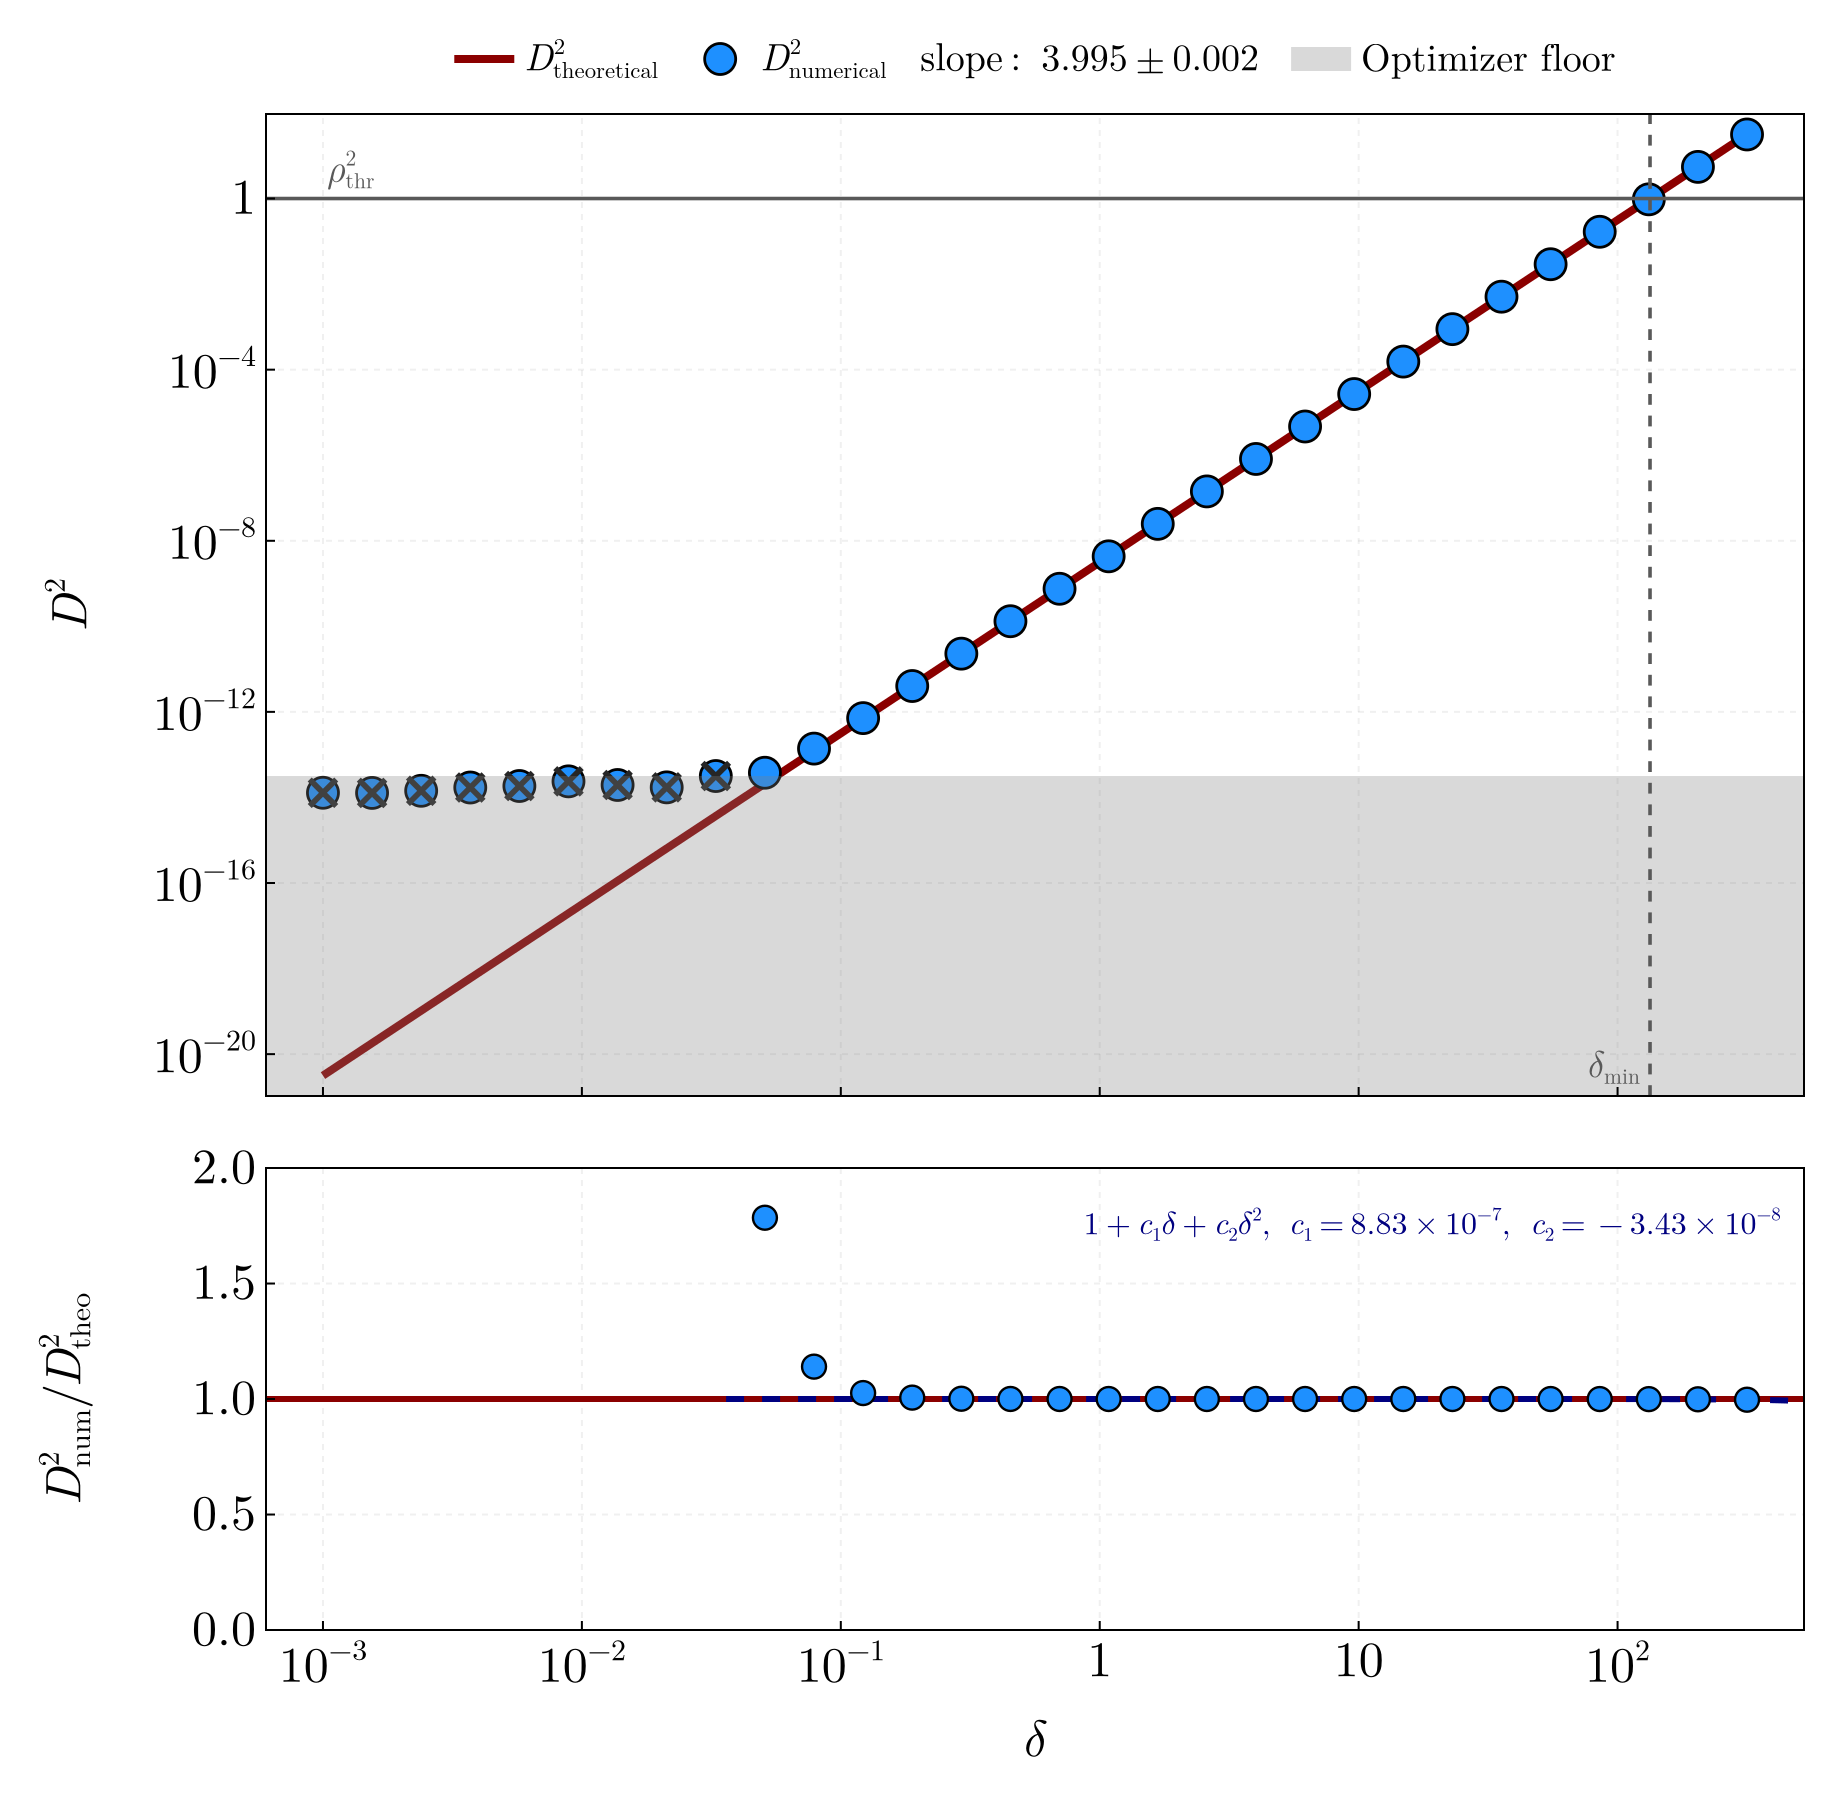
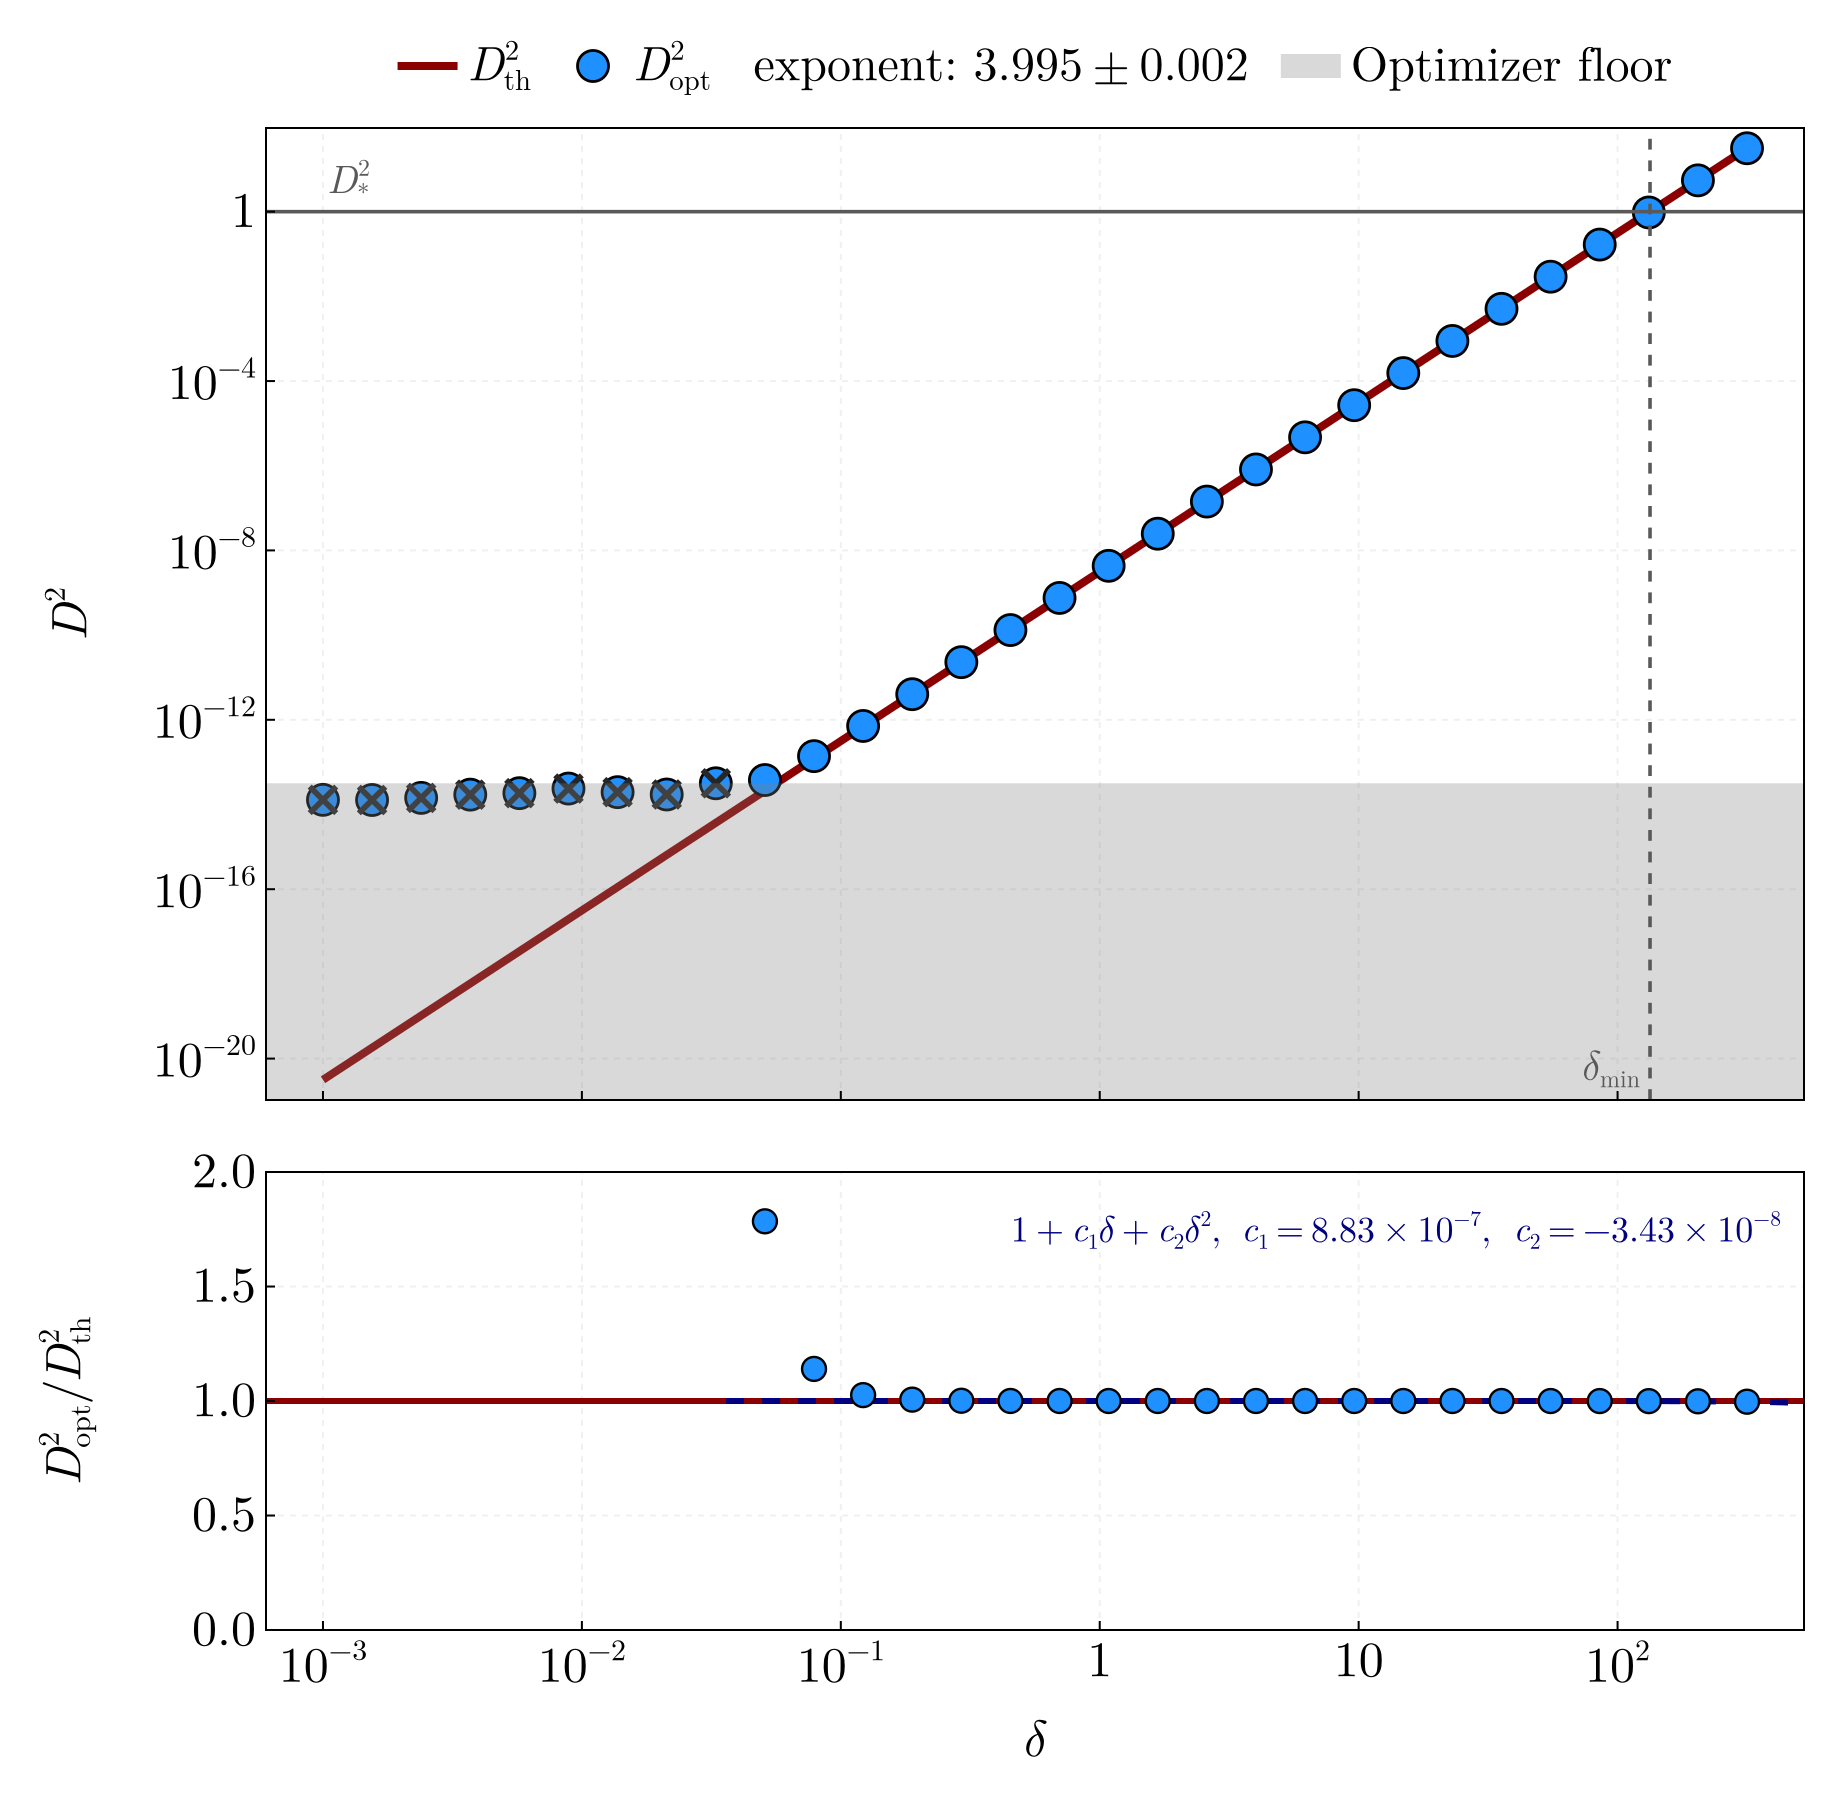
fix(plots): figure labels in the manuscript's notation
The scaling figures name the two distances D²_opt and D²_th in the legend
and the ratio strip, the threshold line D_*² and the fitted log-log slope
"exponent"; the coalescence phase is φ_c on every axis and the residual
density dD²/df. Legends are set at the axis-label size and the in-axis
annotations one step larger. Annotation values keep three significant
digits with trailing zeros (fixed_sig_latex), a leading minus is written
{-} and a colon {:} so that the math engine does not space them as
operators (tex_minus). The prior-wall note of a confusion map gives the
capped fraction of the sampling angle to one decimal and names the
vanishing-curvature fraction only from 0.1 %. The README and documentation
landing figures are re-rendered from the production run.

diff --git a/docs/src/api.md b/docs/src/api.md
@@ -178,6 +178,8 @@ CurvatureDistinguishability.Plotting.pi_ticks
 CurvatureDistinguishability.Plotting.offset_ticks
 CurvatureDistinguishability.Plotting.sci_tick_labels
 CurvatureDistinguishability.Plotting.sci_latex
+CurvatureDistinguishability.Plotting.fixed_sig_latex
+CurvatureDistinguishability.Plotting.tex_minus
 CurvatureDistinguishability.Plotting.coef_latex
 CurvatureDistinguishability.Plotting.slope_latex
 CurvatureDistinguishability.Plotting.axis_exponent
